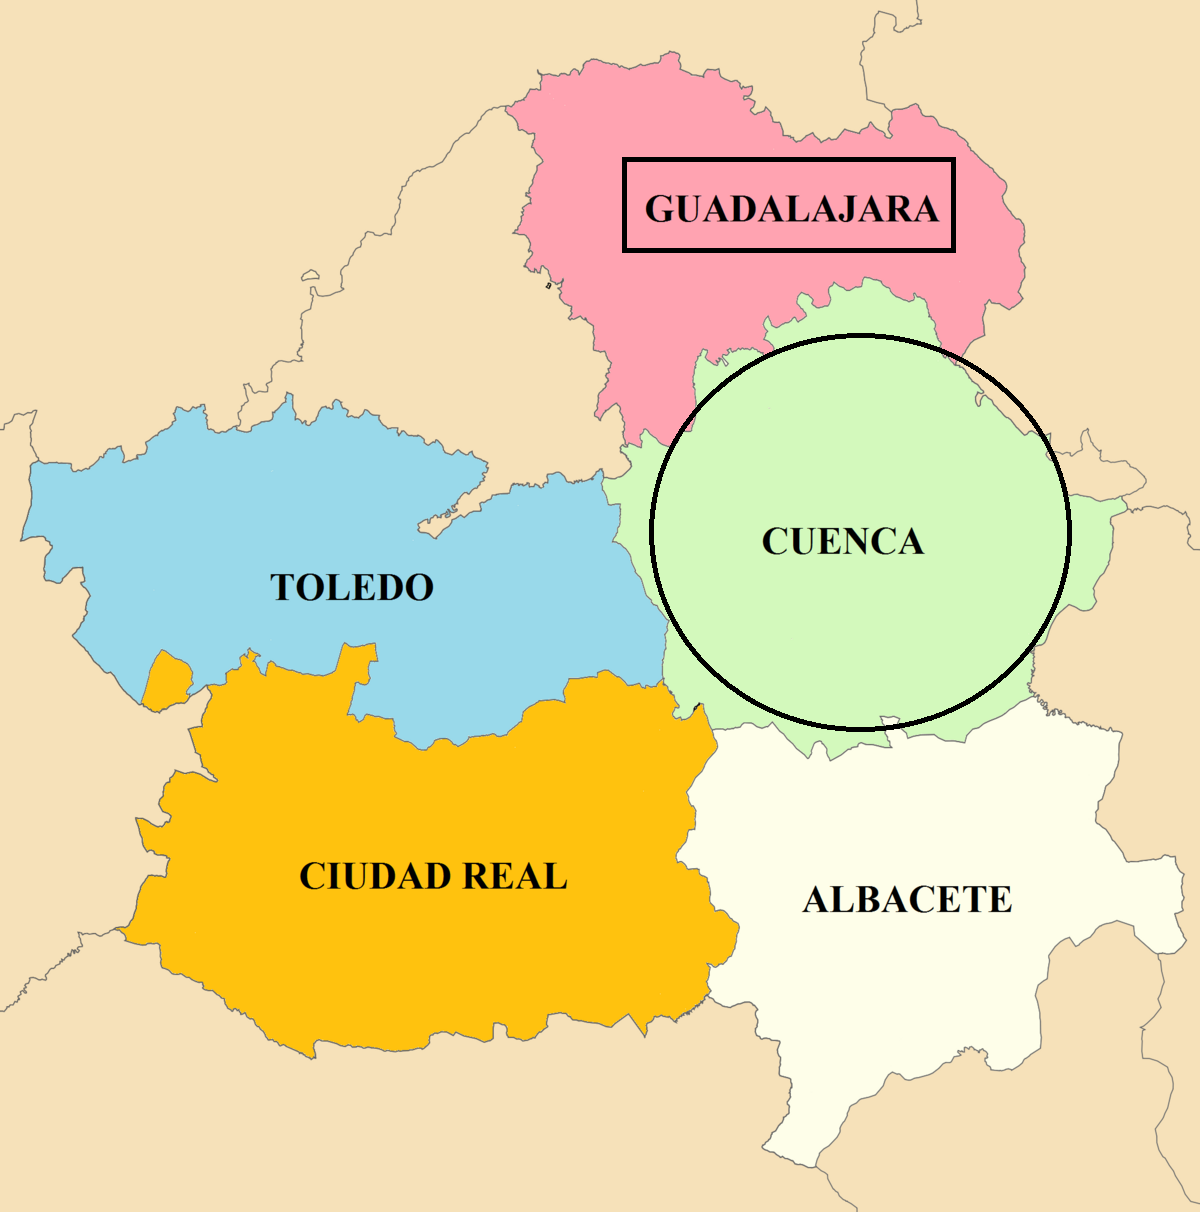
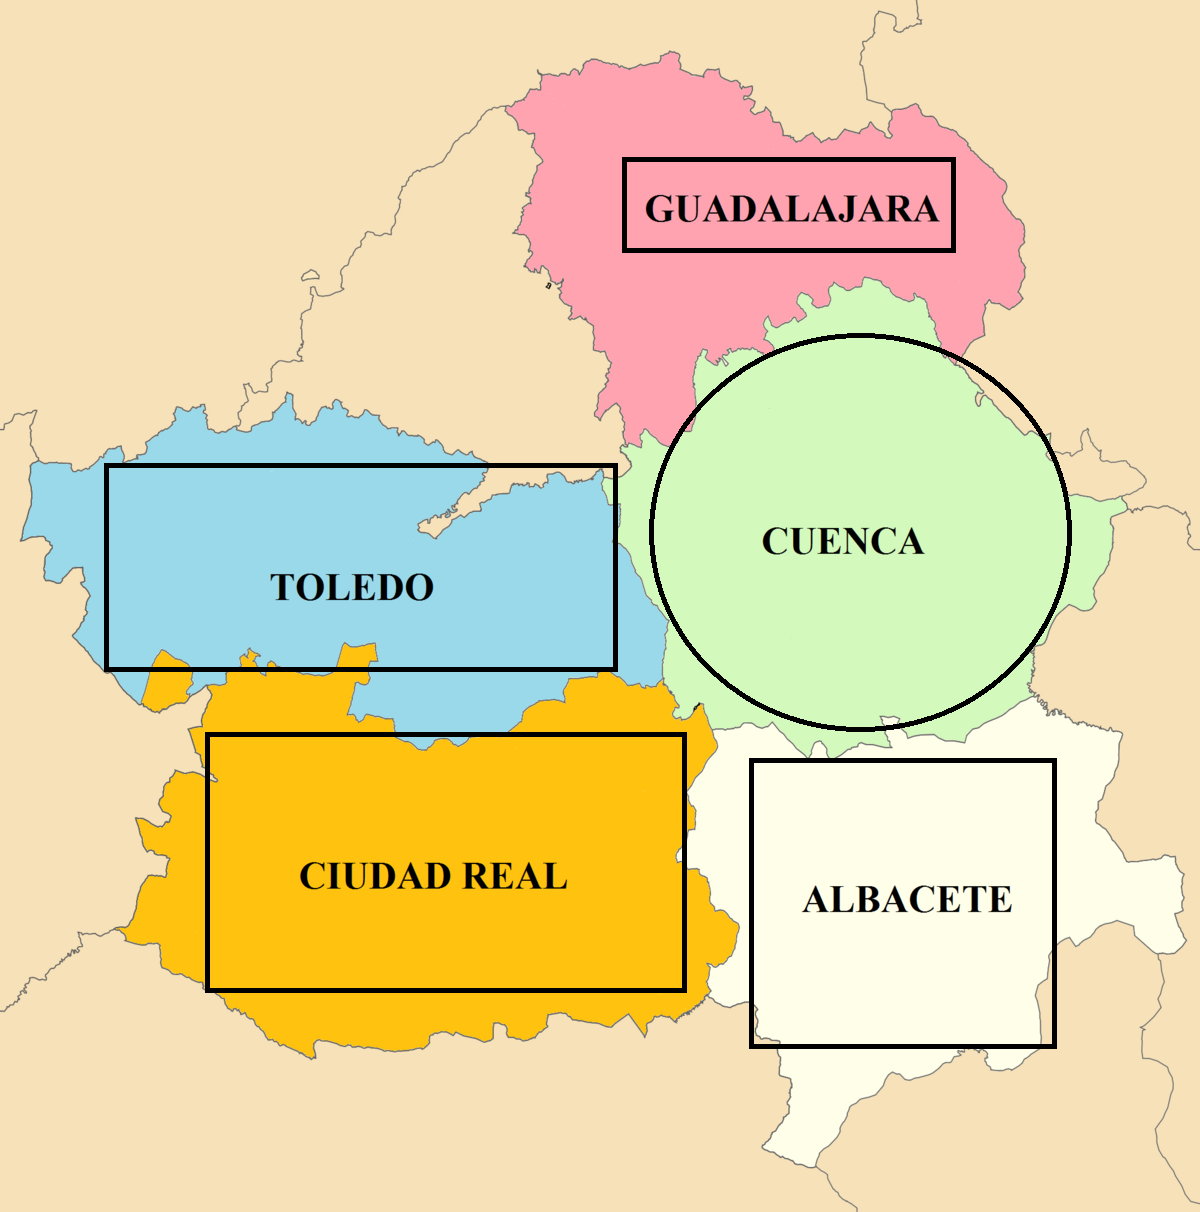
a

diff --git a/Curso HTML/ejercicio5/ejemplomapa/ejemplomapa.html b/Curso HTML/ejercicio5/ejemplomapa/ejemplomapa.html
@@ -11,16 +11,16 @@
 
     <img src="IMG/PROVINCIAS_DE_CASTILLA-LA_MANCHA.png" alt="Castilla-la-mancha" 
     title="provincias castilla la mancha" usemap="Castilla-la-mancha">
-    <map name="Castilla-la-mancha">
-    <area shape="poly" coords="" href="https://es.wikipedia.org/wiki/Albacete" 
+    <map name="Castilla-la-mancha" id="Castilla-la-mancha">
+    <area shape="rect" coords="734,747,1048,1031" rad href="https://es.wikipedia.org/wiki/Albacete" 
     target="_blank" alt="provincia albacete">
-    <area shape="poly" coords="" href="https://es.wikipedia.org/wiki/Cuenca_(Espa%C3%B1a)" 
+    <area shape="circle" coords="840 540 200" href="https://es.wikipedia.org/wiki/Cuenca_(Espa%C3%B1a)" 
     target="_blank" alt="provincia cuenca">
-    <area shape="poly" coords="" href="https://es.wikipedia.org/wiki/Ciudad_Real" 
+    <area shape="rect" coords="208 740 670 1006" href="https://es.wikipedia.org/wiki/Ciudad_Real" 
     target="_blank" alt="provincia ciudad real">
-    <area shape="poly" coords="" href="https://es.wikipedia.org/wiki/Guadalajara_(Espa%C3%B1a)" 
+    <area shape="rect" coords="560 73 560,216 1028,276" href="https://es.wikipedia.org/wiki/Guadalajara_(Espa%C3%B1a)" 
     target="_blank" alt="provincia guadalajara">
-    <area shape="poly" coords="" href="https://es.wikipedia.org/wiki/Toledo" 
+    <area shape="rect" coords="100 460 600 658" href="https://es.wikipedia.org/wiki/Toledo" 
     target="_blank" alt="provincia toledo">
     </map>
     

diff --git a/Curso HTML/ejericio6.html/ejemplo1.html b/Curso HTML/ejericio6.html/ejemplo1.html
@@ -1,0 +1,47 @@
+<!doctype html>
+<html>
+
+<head>
+    <meta charset="utf-8" />
+    <title>Curso de Excel 2016</title>
+</head>
+<link rel="stylesheet" type="text/css" href="CSS/estilo.css" />
+<body>
+    <ul>
+        <li><a href="excel1.html">Atrás</a></li>
+        <li><a href="index.html">Índice</a></li>
+        <li><a href="excel3.html">Adelante</a></li>
+    </ul>
+    <h1>Unidad 2. Empezando a trabajar con Excel</h1>
+    <p>Las teclas activas para poder desplazarse a través de la hoja son:</p>
+    <table>
+        <tr>
+            <th>MOVIMIENTO</th>
+            <th>TECLADO</th>
+        </tr>
+        <tr>
+            <td> Celda Abajo </td>
+            <td><kbd>FLECHA ABAJO </kbd></td>
+        </tr>
+        <tr>
+            <td> Celda Arriba </td>
+            <td><kbd>FLECHA ARRIBA</kbd></td>
+        </tr>
+        <tr>
+            <td> Celda Derecha </td>
+            <td><kbd>FLECHA DERECHA </kbd></td>
+        </tr>
+        <tr>
+            <td> Celda Izquierda </td>
+            <td><kbd>FLECHA IZQUIERDA </kbd></td>
+        </tr>
+        <tr>
+            <td> Pantalla Abajo </td>
+            <td><kbd>AVPAG</kbd></td>
+        </tr>
+    </table>
+    <hr>
+    <p><a href="https://www.aulaclic.es/index.htm" target="_blank"> &copy; aulaClic S.L.</a></p>
+</body>
+
+</html>

diff --git a/index.html b/index.html
@@ -10,13 +10,18 @@
 </head>
 <body>
     <ul>
-        <li>
-     Hola a todos!
+    
+     <h1> Hola a todos! </h1>
+     <h2> curso de HTML </h2>
+    <div>
     <a href="Curso HTML/pagina2.html"> ir a pagina 0 </a> </li>
-    <li> <p> <a href="Curso HTML/ejercicio1/pagina1.html"> pagina 1 </a> </p> </li>
-<li> <p> <a href="Curso HTML/ejercicio2/pagina2.html"> pagina 2 </a></p> </li>
-<li> <p> <a href="Curso HTML/ejerciciopropuestounidad2/ejerciciopropuesto.html"> ir al ejerciciopropuesto de la unidad 2 </a></p> </li>
-<li> <p> <a href="Curso HTML/ejercicio4/ejercicio4/index.html"> ir al ejercicio propuesto de la unidad 4 </a></p> </li>
+    <p> <a href="Curso HTML/ejercicio1/pagina1.html"> pagina 1 </a> </p> </li>
+<p> <a href="Curso HTML/ejercicio2/pagina2.html"> pagina 2 </a></p> </li>
+<p> <a href="Curso HTML/ejerciciopropuestounidad2/ejerciciopropuesto.html"> ir al ejerciciopropuesto de la unidad 2 </a></p> </li>
+<p> <a href="Curso HTML/ejercicio4/ejercicio4/index.html"> ir al ejercicio propuesto de la unidad 4 </a></p> </li>
+<p> <a href="Curso HTML/ejericio6.html/ejemplo1.html"> ir al ejemplo 1 del ejercicio 6 </a></p> </li>
+</div>
+     <h2> curso de CSS </h2>
 </ul>
 </body>
 </html>

diff --git a/Curso HTML/ejericio6.html/CSS/estilo.css b/Curso HTML/ejericio6.html/CSS/estilo.css
@@ -1,0 +1,8 @@
+table,td,th{
+    border: 1px solid red;
+    border-collapse: collapse;
+}
+table{
+    margin: auto;
+    width: 90%;
+}

diff --git a/Curso HTML/ejercicio5/ejemplomapa/CSS/estilo.css b/Curso HTML/ejercicio5/ejemplomapa/CSS/estilo.css
@@ -1,4 +1,3 @@
 img{
     display: block;
-    
 }
